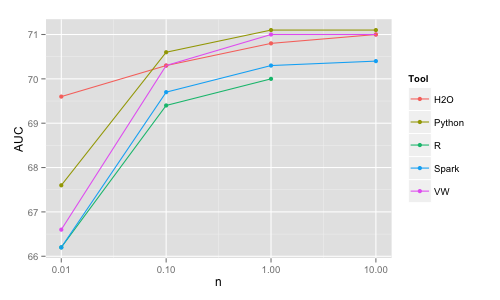
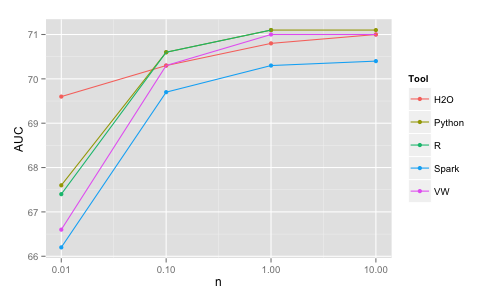
fix factor bug readr linear R

diff --git a/README.md b/README.md
@@ -69,16 +69,16 @@ the more complex models (on this type of data).
 They are analysed here only to get an idea in terms of scalability/speed/accuracy.
 
 The R glm package (the basic R tool for logistic regression) is very slow, 500 seconds on *n* = 0.1M (AUC 70.6).
-The R glmnet package is faster, 10 sec for *n* = 0.1M (AUC 69.3 with no regularization) or 
-120 seconds for *n* = 1M (AUC 70.0), but that is still slow compared to the next alternatives. 
+The R glmnet package is faster, 10 sec for *n* = 0.1M (AUC 70.4 with no regularization) or 
+120 seconds for *n* = 1M (AUC 71.1), but that is still slow compared to the next alternatives. 
 The R LiblineaR package is faster, 30 seconds for *n* = 1M and it's presented in more details below, along with
 Python/scikit-learn's logistic regression based on the same LIBLINEAR C++ library.
 
 Tool    | *n*  |   Time (sec)  | RAM (GB) | AUC
 --------|------|---------------|----------|--------
-R       | 10K  |      0.3      |   2      | 66.2
-        | 100K |       3       |   3      | 69.4
-        | 1M   |      30       |   12     | 70.0
+R       | 10K  |      0.3      |   2      | 67.4
+        | 100K |       3       |   3      | 70.6
+        | 1M   |      30       |   12     | 71.1
         | 10M  |     crash     |          |
 Python  | 10K  |      0.2      |   2      | 67.6
         | 100K |       2       |   3      | 70.6
@@ -201,6 +201,16 @@ allowed for the maximal depth of trees).
 In addition to the above, several other random forest implementations have been tested 
 (Weka, Revo ScaleR, Rborist R package, Mahout), 
 but all of them proved slow and/or unable to scale to the larger sizes.
+
+
+H2O n=10M 250GB (5000)
+
+ntree    | depth  |   nbins  | mtries  | Time (hrs)   |  AUC
+-----------------------------|---------|--------------|--------
+500      |  20    |    20    | -1 (2)  |              |  77.8 
+500      |  50    |    200   | -1 (2)  |              |
+5000     |  50    |    200   | -1 (2)  |      45      |  79.0
+500      |  20    |    20    |   3     |              |
 
 
 #### Boosting
